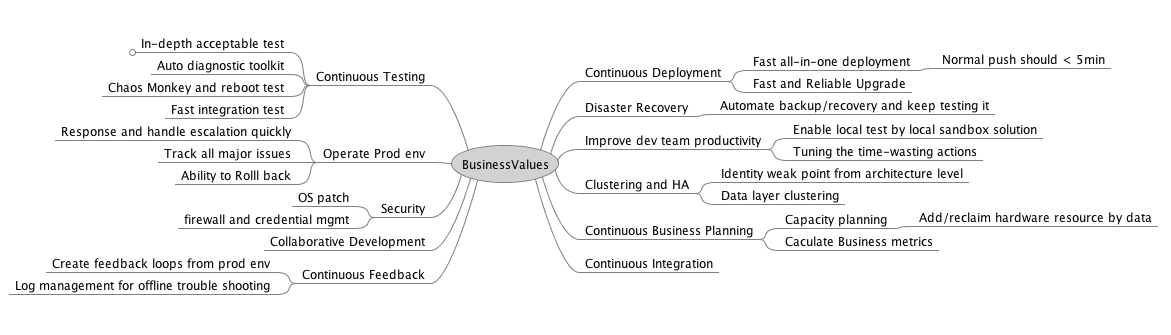
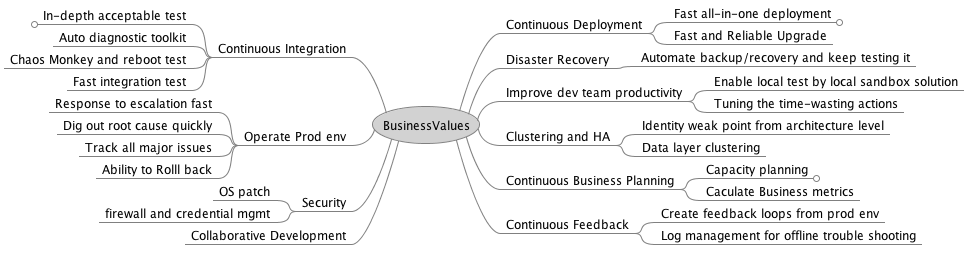
update doc

Changed region(s): [[0.0, 0.0311, 0.9928, 0.965], [0.6515, 0.9027, 0.9617, 0.965], [0.6825, 0.0311, 0.8687, 0.0934]]

diff --git a/BusinessValue/BusinessValues.mm b/BusinessValue/BusinessValues.mm
@@ -2,7 +2,7 @@
 <!-- To view this file, download free mind mapping software FreeMind from http://freemind.sourceforge.net -->
 <node CREATED="1439686973115" ID="ID_217404312" MODIFIED="1439723154489" TEXT="BusinessValues">
 <node CREATED="1439724890987" ID="ID_739212583" MODIFIED="1439734683780" POSITION="right" TEXT="Continuous Deployment">
-<node CREATED="1439734246327" ID="ID_1167792408" MODIFIED="1439734255435" TEXT="Fast all-in-one deployment">
+<node CREATED="1439734246327" FOLDED="true" ID="ID_1167792408" MODIFIED="1439736107621" TEXT="Fast all-in-one deployment">
 <node CREATED="1439735025312" ID="ID_389189813" MODIFIED="1439735033731" TEXT="Normal push should &lt; 5min"/>
 </node>
 <node CREATED="1439723003484" ID="ID_964557285" MODIFIED="1439735139192" TEXT="Fast and Reliable Upgrade"/>
@@ -18,7 +18,7 @@
 <node CREATED="1439735152884" ID="ID_815717473" MODIFIED="1439735170592" TEXT="Identity weak point from architecture level"/>
 <node CREATED="1439735176078" ID="ID_1238141354" MODIFIED="1439735181488" TEXT="Data layer clustering"/>
 </node>
-<node CREATED="1439724893326" ID="ID_812324377" MODIFIED="1439734846274" POSITION="left" TEXT="Continuous Testing">
+<node CREATED="1439724893326" ID="ID_812324377" MODIFIED="1439736044096" POSITION="left" TEXT="Continuous Integration">
 <node CREATED="1439722998381" FOLDED="true" ID="ID_235388487" MODIFIED="1439734868761" TEXT="In-depth acceptable test">
 <node CREATED="1439723050958" ID="ID_1535472460" MODIFIED="1439723055898" TEXT="Principles: comprehensive test and minimum change"/>
 </node>
@@ -27,7 +27,8 @@
 <node CREATED="1439687002045" ID="ID_1977712800" MODIFIED="1439734332942" TEXT="Fast integration test"/>
 </node>
 <node CREATED="1439725160513" ID="ID_216740432" MODIFIED="1439734705047" POSITION="left" TEXT="Operate Prod env">
-<node CREATED="1439735204725" ID="ID_588325107" MODIFIED="1439735231307" TEXT="Response and handle escalation quickly"/>
+<node CREATED="1439735204725" ID="ID_588325107" MODIFIED="1439736077060" TEXT="Response to escalation fast"/>
+<node CREATED="1439736078611" ID="ID_1019262182" MODIFIED="1439736095677" TEXT="Dig out root cause quickly"/>
 <node CREATED="1439723220895" ID="ID_1407567086" MODIFIED="1439734723465" TEXT="Track all major issues"/>
 <node CREATED="1439723228586" ID="ID_1221721317" MODIFIED="1439735203303" TEXT="Ability to Rolll back"/>
 </node>
@@ -36,16 +37,15 @@
 <node CREATED="1439735376020" ID="ID_1432770222" MODIFIED="1439735412533" TEXT="firewall and credential mgmt"/>
 </node>
 <node CREATED="1439724868133" ID="ID_745307436" MODIFIED="1439724869423" POSITION="left" TEXT="Collaborative Development"/>
-<node CREATED="1439724897900" ID="ID_1064250432" MODIFIED="1439734725968" POSITION="left" TEXT="Continuous Feedback">
-<node CREATED="1439723215799" ID="ID_1702157874" MODIFIED="1439725065765" TEXT="Create feedback loops from prod env"/>
-<node CREATED="1439723224974" ID="ID_580824281" MODIFIED="1439723225464" TEXT="Log management for offline trouble shooting"/>
-</node>
 <node CREATED="1439724862423" ID="ID_1330329575" MODIFIED="1439734835901" POSITION="right" TEXT="Continuous Business Planning">
-<node CREATED="1439723206992" ID="ID_1064507388" MODIFIED="1439723207948" TEXT="Capacity planning">
+<node CREATED="1439723206992" FOLDED="true" ID="ID_1064507388" MODIFIED="1439736028465" TEXT="Capacity planning">
 <node CREATED="1439734041956" ID="ID_588409835" MODIFIED="1439734415976" TEXT="Add/reclaim hardware resource by data"/>
 </node>
 <node CREATED="1439734423717" ID="ID_220973085" MODIFIED="1439734446144" TEXT="Caculate Business metrics"/>
 </node>
-<node CREATED="1439724882501" ID="ID_883874793" MODIFIED="1439735188164" POSITION="right" TEXT="Continuous Integration"/>
+<node CREATED="1439724897900" ID="ID_1064250432" MODIFIED="1439734725968" POSITION="right" TEXT="Continuous Feedback">
+<node CREATED="1439723215799" ID="ID_1702157874" MODIFIED="1439725065765" TEXT="Create feedback loops from prod env"/>
+<node CREATED="1439723224974" ID="ID_580824281" MODIFIED="1439723225464" TEXT="Log management for offline trouble shooting"/>
+</node>
 </node>
 </map>

diff --git a/TechStack/TechStack.mm b/TechStack/TechStack.mm
@@ -3,8 +3,9 @@
 <node CREATED="1439724921694" ID="ID_1678182693" MODIFIED="1439724928660" TEXT="TechStack">
 <node CREATED="1439724936475" ID="ID_1993377775" MODIFIED="1439724937297" POSITION="right" TEXT="Fundamental">
 <node CREATED="1439724940643" ID="ID_1135532935" MODIFIED="1439724941514" TEXT="Bash"/>
-<node CREATED="1439724944746" ID="ID_1289703170" MODIFIED="1439724946607" TEXT="Chef"/>
-<node CREATED="1439724947897" ID="ID_644487171" MODIFIED="1439724954206" TEXT="Jenkins"/>
+<node CREATED="1439724944746" ID="ID_1289703170" MODIFIED="1439735930660" TEXT="Automation: Chef"/>
+<node CREATED="1439735857717" ID="ID_320757161" MODIFIED="1439735996042" TEXT="Build: make, gcc, maven"/>
+<node CREATED="1439724947897" ID="ID_644487171" MODIFIED="1439735852255" TEXT="CI: Jenkins"/>
 </node>
 <node CREATED="1439724958443" ID="ID_1683350093" MODIFIED="1439724959367" POSITION="right" TEXT="Test facility">
 <node CREATED="1439724961970" ID="ID_635704886" MODIFIED="1439724963538" TEXT="Docker"/>
@@ -14,16 +15,22 @@
 <node CREATED="1439724976325" ID="ID_712311958" MODIFIED="1439724981646" POSITION="right" TEXT="Monitoring">
 <node CREATED="1439724984761" ID="ID_1162547531" MODIFIED="1439724986652" TEXT="Nagios"/>
 </node>
-<node CREATED="1439724986985" ID="ID_1568561579" MODIFIED="1439724987638" POSITION="left" TEXT="Verification framework">
+<node CREATED="1439735735679" ID="ID_332949112" MODIFIED="1439735952639" POSITION="left" TEXT="Data layer">
+<node CREATED="1439735743024" ID="ID_806635519" MODIFIED="1439735825917" TEXT="NoSQL DB, RDBMS"/>
+<node CREATED="1439735829029" ID="ID_191179703" MODIFIED="1439735837659" TEXT="Clustering and Replication"/>
+</node>
+<node CREATED="1439735579715" ID="ID_428175662" MODIFIED="1439735955763" POSITION="left" TEXT="Linux Skills">
+<node CREATED="1439735896529" ID="ID_1794469861" MODIFIED="1439735909911" TEXT="Packaging: deb, rpm"/>
+<node CREATED="1439735585088" ID="ID_1465854243" MODIFIED="1439735589616" TEXT="GUN tool kit"/>
+<node CREATED="1439735594074" ID="ID_8638417" MODIFIED="1439735609949" TEXT="Linux indepth trouble shooting"/>
+</node>
+<node CREATED="1439724986985" ID="ID_1568561579" MODIFIED="1439735953778" POSITION="left" TEXT="Verification framework">
 <node CREATED="1439724990514" ID="ID_695028630" MODIFIED="1439724990998" TEXT="Serverspec"/>
 <node CREATED="1439725001560" ID="ID_1961089384" MODIFIED="1439725006856" TEXT="selenium, protractor"/>
 </node>
-<node CREATED="1439725023855" ID="ID_1824515224" MODIFIED="1439725024589" POSITION="left" TEXT="Metric visualization">
-<node CREATED="1439725025609" ID="ID_1231333159" MODIFIED="1439725026606" TEXT="ELK"/>
-</node>
-<node CREATED="1439735579715" ID="ID_428175662" MODIFIED="1439735583322" POSITION="left" TEXT="Linux Skills">
-<node CREATED="1439735585088" ID="ID_1465854243" MODIFIED="1439735589616" TEXT="GUN tool kit"/>
-<node CREATED="1439735594074" ID="ID_8638417" MODIFIED="1439735609949" TEXT="Linux indepth trouble shooting"/>
+<node CREATED="1439725023855" ID="ID_1824515224" MODIFIED="1439735987004" POSITION="left" TEXT="Metric visualization">
+<node CREATED="1439725025609" ID="ID_1231333159" MODIFIED="1439735984299" TEXT="Elasticsearch, Logstash"/>
+<node CREATED="1439735979848" ID="ID_1422229612" MODIFIED="1439735981814" TEXT="Kibana"/>
 </node>
 </node>
 </map>

diff --git a/README.md b/README.md
@@ -1,7 +1,5 @@
 # DevOps-knowledgebase
 
-Link Of Current Page: https://github.com/DennyZhang/devops-knowledgebase
-
 DevOps Role = Quality Engineers + Automation Engineers + Ops + Security
 
 Characteristics Of DevOps Work:
@@ -34,3 +32,5 @@ We maintain current github repo, in hope of:
 2. Adaptive to change and comfortable to play with latest technology
 3. Strong desire to automate any routine work
 4. Trouble shooting skills
+
+Link Of Current Page: https://github.com/DennyZhang/devops-knowledgebase
